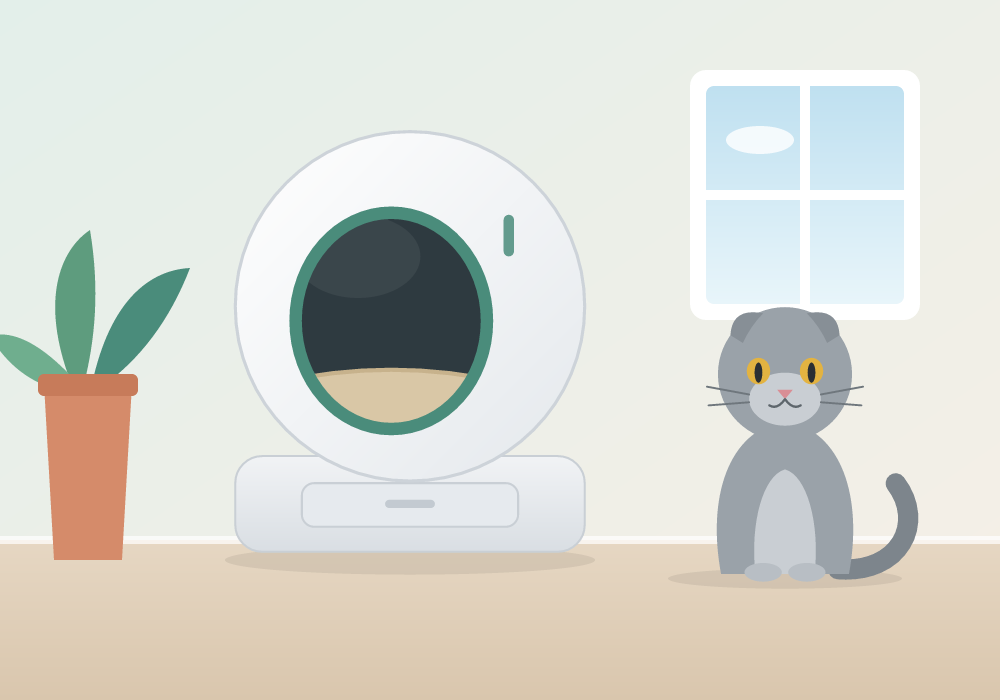
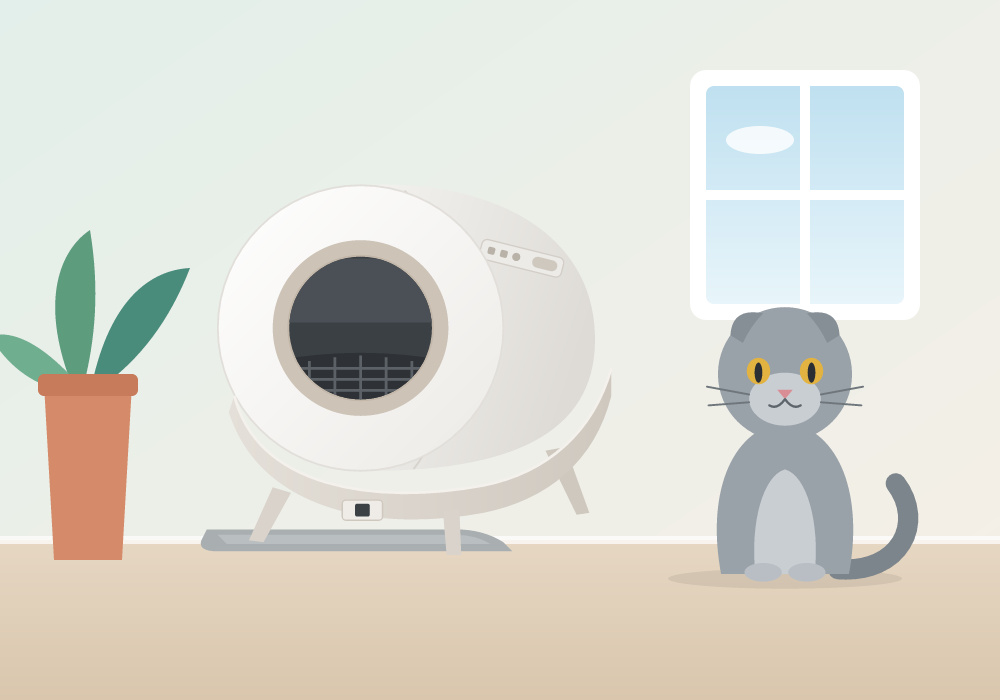
Redraw Revoloo One, document setup order, add changelog
The litter box illustration and driver icon now match the real Revoloo One (drum on its side in a cradle on legs). README explains that NOTTY must be set up first, adds Flow cards, troubleshooting and development notes. Adds .homeychangelog.json and removes an unused capability.

diff --git a/app.js b/app.js
@@ -5,13 +5,13 @@ const { NottyApi } = require('./lib/NottyApi');
 
 const PETS_CACHE_MS = 30 * 1000;
 
-class NottyApp extends Homey.App {
+class RevolooApp extends Homey.App {
 
   async onInit() {
     this._api = null;
     this._petsCache = { at: 0, promise: null };
     this._registerFlowCards();
-    this.log('NOTTY app started');
+    this.log('Revoloo app started');
   }
 
   /** The shared, logged-in API client (one NOTTY account per Homey). */
@@ -86,4 +86,4 @@ class NottyApp extends Homey.App {
 
 }
 
-module.exports = NottyApp;
+module.exports = RevolooApp;

diff --git a/drivers/cat/device.js b/drivers/cat/device.js
@@ -4,7 +4,6 @@ const Homey = require('homey');
 
 const POLL_MS = 15 * 60 * 1000;
 const LB_TO_KG = 0.45359237;
-const OBSOLETE_CAPABILITIES = ['cat_toilet_time_today'];
 
 function toNumber(value) {
   const n = Number(value);
@@ -24,9 +23,6 @@ class CatDevice extends Homey.Device {
 
   async onInit() {
     this.petId = this.getData().id;
-    for (const cap of OBSOLETE_CAPABILITIES) {
-      if (this.hasCapability(cap)) await this.removeCapability(cap).catch(this.error);
-    }
     this._schedule(2000);
   }
 

diff --git a/README.md b/README.md
@@ -4,57 +4,154 @@ Homey app for [Revoloo](https://revoloo.nl/) smart pet products. It currently
 supports the **Revoloo One** litter box. The Revoloo Serve (feeder) and Revoloo
 Stream (water fountain) are not supported yet.
 
-Revoloo devices are controlled with the *NOTTY Smart Pet* app. This Homey app
-talks to the same cloud (`api.nottycat.com`), so other litter boxes sold under
-the NOTTY platform may work too, but that is untested.
+Revoloo devices are set up and managed with the *NOTTY Smart Pet* app. This
+Homey app reads from and sends commands to the same cloud
+(`api.nottycat.com`). Other litter boxes on the NOTTY platform may work too,
+but that is untested.
 
 > Community app, not affiliated with Revoloo or NOTTY. The cloud API is
 > undocumented and may change at any time.
 
+## Before you start: set up NOTTY first
+
+Homey only shows what is already known in the NOTTY cloud. It does not set up
+the litter box or create cat profiles. So, in this order:
+
+1. Install the **NOTTY Smart Pet** app on your phone and create an account.
+2. Add your Revoloo One in the NOTTY app and connect it to your Wi-Fi.
+3. Add your cats in the NOTTY app and set their weight. You keep managing the
+   cat profiles there.
+4. Then install this app on Homey and add your devices (see below).
+
 ## Features
 
-**Revoloo One litter box**
-- Status (idle / cleaning / emptying / leveling), mode, litter and waste bag days remaining, cleanings and visits today, last cat weight, last event
-- Buttons: clean now, level litter, empty litter
-- Flow triggers: *a cat left the litter box* (with weight), *cleaning finished*, *new event*, *status changed*
-- Flow condition: *status is…*
-- Flow actions: *start cleaning*, *level*, *empty*, *set mode*
+### Revoloo One litter box
 
-**Cat** (one per cat in your NOTTY account)
-- Weight and toilet visits today
-- Flow trigger: *cat used the litter box*
+| Shows | Notes |
+|---|---|
+| Status | Idle, cleaning, emptying, leveling or busy |
+| Mode | Auto, scheduled or soft stool; can also be changed |
+| Litter remaining | Days until the litter needs refilling |
+| Waste bag remaining | Days until the waste bag needs changing |
+| Cleanings today, visits today | As counted by the NOTTY cloud |
+| Last cat weight | Weight measured at the last visit |
+| Last event | E.g. "Automatic cleaning completed" |
 
-NOTTY often does not recognise which cat used the litter box, so each visit
-is matched to the cat whose weight is closest (within a tolerance you can set
-per cat, default 0.5 kg). Two cats of about the same weight cannot be told
+Buttons: **clean now**, **level litter**, **empty litter**.
+
+### Cat
+
+One device per cat in your NOTTY account, showing its **weight** and
+**toilet visits today**.
+
+NOTTY often does not recognise which cat used the litter box ("A cat 4.17kg
+left the toilet. Please update pet profile."), so its own per-cat statistics
+stay empty. This app therefore matches each visit to the cat whose weight is
+closest, within a tolerance you can set per cat (default 0.5 kg). After a
+match the cat's weight follows the measurement, so matching keeps working as
+the cat's weight changes. Two cats of about the same weight cannot be told
 apart.
 
-The litter box is checked every 60 seconds (every 15 seconds while it is busy).
+### Flow cards
 
-## Install on your own Homey (Pro or Self-Hosted Server)
+| Type | Card | Tokens |
+|---|---|---|
+| Trigger | A cat left the litter box | weight (kg) |
+| Trigger | Cleaning finished | event |
+| Trigger | New event | event, type |
+| Trigger | Status changed | status |
+| Trigger (cat) | Cat used the litter box | visits, weight |
+| Condition | Status is / is not … | |
+| Action | Start cleaning | |
+| Action | Level the litter | |
+| Action | Empty the litter | |
+| Action | Set mode | |
 
-Requirements: [Node.js](https://nodejs.org/) 18+ and the Homey CLI.
+The litter box is checked every 60 seconds, and every 15 seconds while it is
+busy, so triggers can be up to a minute late.
+
+## Install
+
+Requirements: a Homey Pro or Homey Self-Hosted Server (version 12.2 or newer),
+and on your computer [Node.js](https://nodejs.org/) 18+ and Git.
 
 ```bash
+git clone https://github.com/MarcoDigital/homey-revoloo.git
+cd homey-revoloo
 npm install -g homey
 homey login
 homey select
 homey app install
 ```
 
-When you add a device, enter the email address of your NOTTY Smart Pet
-account; NOTTY emails you a one-time code to finish logging in.
+On Windows PowerShell you may need `npm.cmd` and `homey.cmd` instead of `npm`
+and `homey` if running scripts is disabled.
 
-Note: stopping `homey app run` uninstalls the app and removes its devices. Use
-`homey app install` for everyday use.
+## Add your devices
 
-## Status
+1. In the Homey app, add a device and choose **Revoloo**.
+2. Choose **Revoloo One litter box**.
+3. Enter the email address of your NOTTY Smart Pet account. NOTTY emails you a
+   one-time code; enter it to log in.
+4. Select your litter box.
+5. Add your cats the same way with **Cat**. You don't need to log in again.
 
-Early version, running on one Revoloo One with two cats. Status code 3 (smart
-cleaning) and the event list are confirmed on that device; the other status
-codes come from community reverse-engineering. The app logs the raw API
-responses once after start (visible with `homey app run`), which helps map
-missing fields.
+## Troubleshooting
+
+| Problem | Solution |
+|---|---|
+| Device shows "login expired" | Open the device, choose **Repair** and log in again with a new email code. |
+| Cat device unavailable | The cat was removed from the NOTTY app. Remove the cat in Homey as well. |
+| Litter box unavailable / offline | The NOTTY cloud reports the box as offline. Check its power and Wi-Fi in the NOTTY app. |
+| Visits go to the wrong cat, or to none | Check the cats' weights and the **weight tolerance** setting of each cat. |
+| Status shows "Busy" | The box reported a status code the app does not know yet. Please open an issue. |
+
+## Development
+
+```
+app.js                  App: NOTTY session, shared pets cache, Flow cards, cat matching
+app.json                Manifest: capabilities, drivers, Flow cards
+lib/NottyApi.js         Client for the NOTTY cloud API
+lib/pairing.js          Email-code login, shared by pairing and repair
+drivers/litterbox/      Revoloo One driver, device and pairing views
+drivers/cat/            Cat driver, device and pairing views
+locales/                English and Dutch texts
+assets/                 App icon and images
+assets/source/          SVG sources of the images and render.js
+README.txt              App Store description (Homey shows this text, not README.md)
+.homeychangelog.json    Changelog shown in the Homey App Store
+```
+
+Run with live logs:
+
+```bash
+homey app run --remote
+```
+
+Note: stopping `homey app run` uninstalls the app and removes its devices.
+Use `homey app install` for everyday use. After start the app logs the raw API
+responses once, which helps map new fields and status codes.
+
+The images are original illustrations. To change them, edit the SVG files in
+`assets/source/` and render them again:
+
+```bash
+npm install --no-save @resvg/resvg-js
+node assets/source/render.js
+```
+
+### What is known about the API
+
+- Login: `POST /account/get_email_code`, then `POST /account/login_by_email`.
+- Litter box status: `GET /device/litter_box/get_info/{user_device_id}`.
+  Status code 3 (smart cleaning) is confirmed on a real Revoloo One; 0, 4, 5
+  and 6 come from community work. The response includes the latest events
+  (`event_type_id` 10 = in progress, 11 = completed, 12 = cat left).
+- Commands: `POST /device/litter_box/one_key` with 1 = clean, 2 = empty,
+  3 = level; `POST /device/litter_box/set_mode`.
+- Cats: `GET /pet/list`.
+- Event times in the API are 7 hours ahead of Dutch time (probably China
+  time); the app does not use them.
 
 ## Credits
 
@@ -64,4 +161,4 @@ API knowledge comes from these MIT-licensed Home Assistant integrations:
 
 ## License
 
-MIT
+[MIT](LICENSE)
